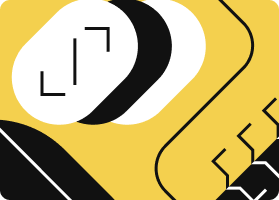
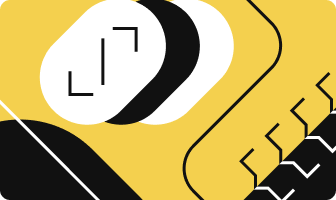
add clamp() for responsive font size and main container width

diff --git a/style/main.css b/style/main.css
@@ -5,6 +5,8 @@
   --dark-grey: #111111;
 }
 
+/* general styles */
+
 body {
   background-color: var(--primary);
   display: grid;
@@ -22,19 +24,28 @@ section {
 
 .learning-status,
 .publish-date {
-  font-size: 0.75rem;
+  font-size: clamp(0.75rem, 2vw, 0.875rem);
 }
 
 main {
   background-color: white;
   align-items: center;
-  border: 1px solid var(--dark-grey);
-  max-width: 327px;
+  border: 2px solid var(--dark-grey);
+  width: clamp(327px, calc(327px + 57 * ((100vw - 340px) / 1080)), 384px);
   border-radius: 20px;
   padding: 1.5rem;
   gap: 1.5rem;
   box-shadow: 8px 8px 0px 0px black;
 }
+
+/* img */
+
+.main-img {
+  width: 100%;
+  height: 200px;
+}
+
+/* info section */
 
 section {
   gap: 0.75rem;
@@ -53,7 +64,7 @@ section {
 }
 
 h1 a {
-  font-size: 1.25rem;
+  font-size: clamp(1.25rem, 2vw, 1.5rem);
   font-weight: 800;
   cursor: pointer;
 }
@@ -69,9 +80,11 @@ h1 a:focus {
 
 .description {
   font-weight: 500;
-  font-size: 0.875rem;
+  font-size: clamp(0.875rem, 2vw, 1rem);
   color: #6b6b6b;
 }
+
+/* profile info */
 
 .profile-info {
   align-self: flex-start;

diff --git a/index.html b/index.html
@@ -10,7 +10,11 @@
   </head>
   <body>
     <main>
-      <img src="img/blog-image.png" alt="A decorative blog card image." />
+      <img
+        class="main-img"
+        src="img/blog-image.png"
+        alt="A decorative blog card image."
+      />
       <section>
         <div class="learning-status">Learning</div>
         <p class="publish-date">Published 21 Dec 2023</p>
